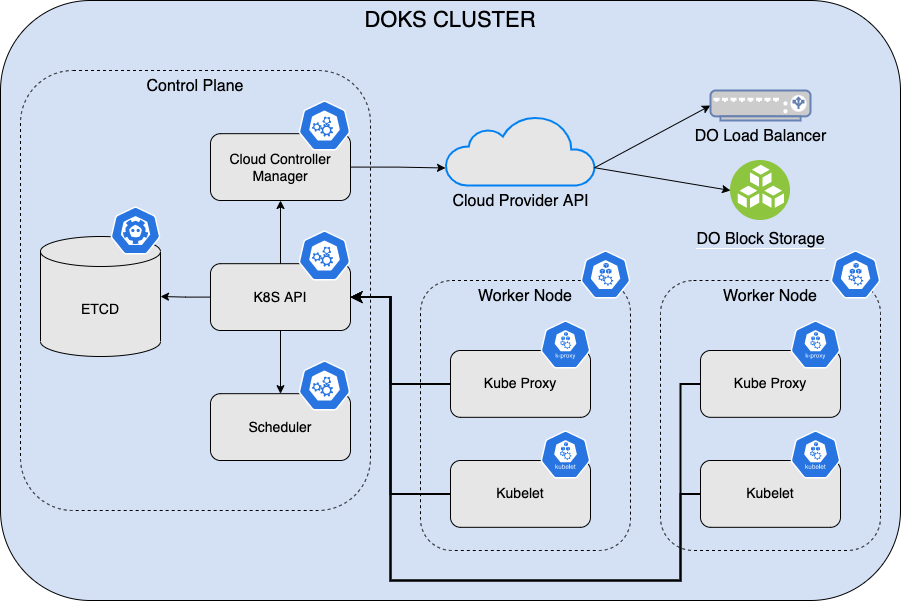
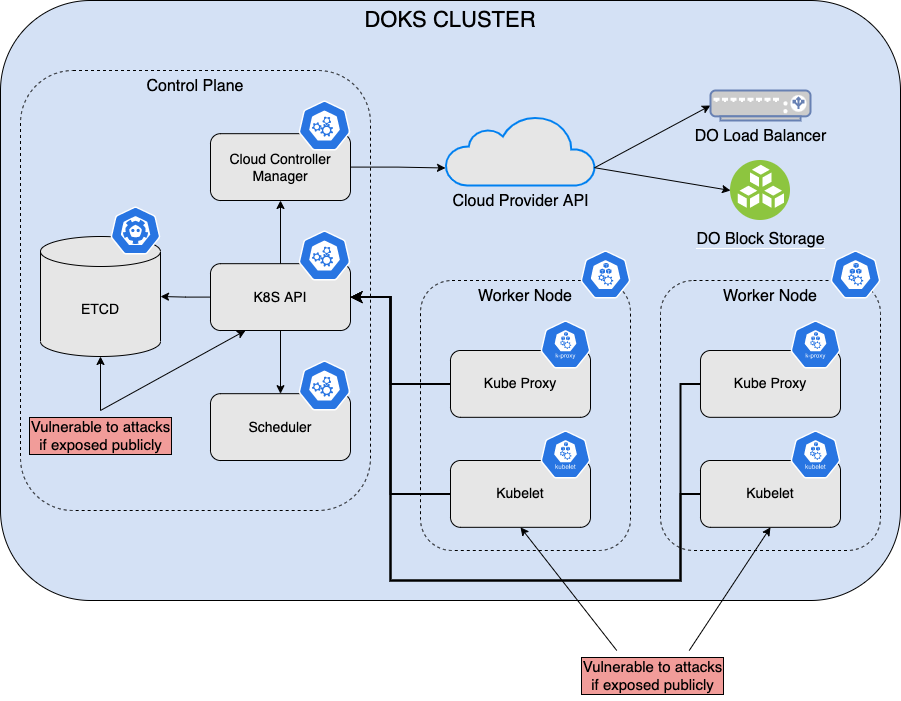
Documentation WIP - Main README and K8S diagram updates

diff --git a/DOKS-hardening/README.md b/DOKS-hardening/README.md
@@ -11,7 +11,7 @@ Kubernetes has grown a lot in terms of stability and maturity in the past years.
 1. [Control Plane](https://kubernetes.io/docs/concepts/overview/components/#control-plane-components) - takes care of scheduling your workloads (Pods) and responding to cluster events (such as starting up a new pod when a deployment's replicas field is unsatisfied).
 2. [Worker Nodes](https://kubernetes.io/docs/concepts/overview/components/#node-components) - these are the actual machines running your Kubernetes workloads. Node components run on every node, maintaining running pods and providing the Kubernetes runtime environment.
 
-Below picture shows the typical architecture of a Kubernetes cluster:
+Below picture shows the typical architecture of a Kubernetes cluster and possible weak points:
 
 ![Kubernetes Architecture Overview](assets/images/DOKS_Overview.png)
 
@@ -59,7 +59,11 @@ Below picture illustrates the concept better:
 
 ![DOKS End to End Security](asssets/../assets/images/DOKS_E2E_Security.png)
 
-There are many vulnerability scanning tools available but this guide focuses on two implementations:
+There are many vulnerability scanning tools available but this guide focuses on two implementations - [Armosec Kubescape](https://github.com/armosec/kubescape/) and [Snyk](https://snyk.io).
+
+Without further ado, please pick one to start with from the list below.
+
+## Security Compliance Scanning Solutions
 
 | KUBESCAPE | SNYK |
 |:---------------------------------------------------------------------:|:------------------------------------------------------:|
